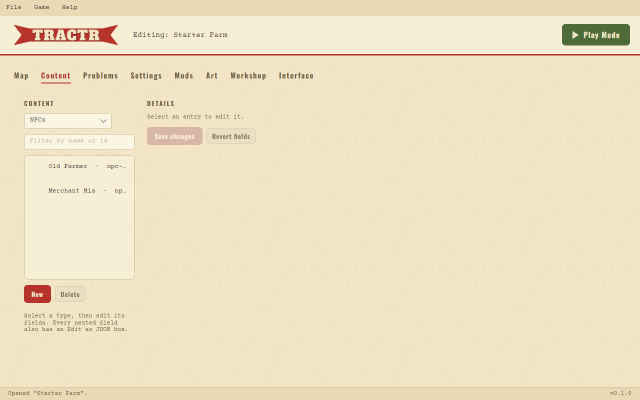
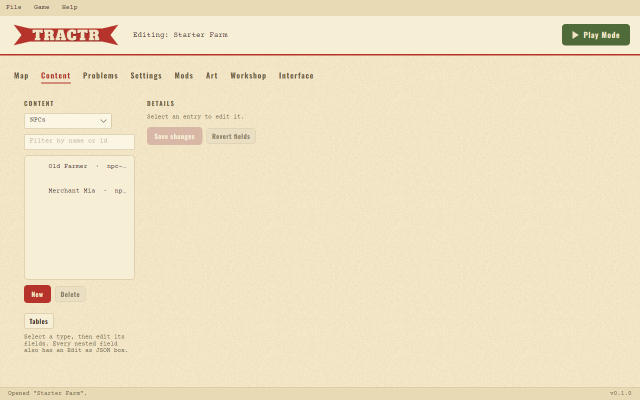
Name the skin form's controls and re-bless the editor screenshots
Screen readers need a name on every editor control; six of the new skin
fields had none. The Creator Guide's bold text must be editor labels, so
terms that are not labels are now in italics. The Play Mode and Content
tab screenshots gain the new States and Tables buttons.

Claude-Session: https://claude.ai/code/session_019oQTebzXx2xZdqtMRMwmRC

Changed region(s): [[0.0312, 0.78, 0.1875, 0.9]]

diff --git a/src/Tractr.App/Game/SkinEditorPanel.cs b/src/Tractr.App/Game/SkinEditorPanel.cs
@@ -40,6 +40,12 @@ public sealed class SkinEditorPanel : StackPanel
         Name = "SkinEditor";
         Spacing = 8;
         _message.Name = "SkinMessage";
+        AutomationProperties.SetName(_edge, "Panel edge (pixels)");
+        AutomationProperties.SetName(_scale, "Panel scale");
+        AutomationProperties.SetName(_portrait, "Portrait size");
+        AutomationProperties.SetName(_titleBackground, "Title background art");
+        AutomationProperties.SetName(_titleLogo, "Title logo");
+        AutomationProperties.SetName(_titleScene, "Title scene");
         Children.Add(Ui.Text("INTERFACE SKIN", "section"));
         Children.Add(Ui.Wrapped("Your game's own look: fonts, colours, panel art (drawn in nine parts so corners keep their size), icons and layout. Empty fields keep the built-in look; the player's text size and readable font still apply.", "muted", "small"));
 

diff --git a/docs/CREATOR-GUIDE.md b/docs/CREATOR-GUIDE.md
@@ -873,7 +873,7 @@ machines, animals and walking characters, and any art you assign wins.
 
 #### Art sizes
 
-The built-in pack is drawn at **32 pixels per tile**, and creator art that
+The built-in pack is drawn at 32 pixels per tile, and creator art that
 stands on the map follows the same rule, so a frame drawn at the same pixel
 size as the built-in art comes out the same size:
 
@@ -910,10 +910,10 @@ character in those colours, the same colours the player's character
 creator picks, over its appearance's colours: so two NPCs with the same
 appearance can still look different.
 
-A **layered character** is a stack of layer sheets drawn in order, for
+A *layered character* is a stack of layer sheets drawn in order, for
 example body, eyes, hair, top, bottom, shoes, hat and accessory. Every layer
 is an artwork with the same clip names and frame layout (all `walk-left`
-clips have the same frames), and each layer can have a **colour** it is
+clips have the same frames), and each layer can have a colour it is
 multiplied with: draw a layer in light greys and colour it per character.
 An NPC's `layers` and the project's `playerLayers` replace their art when
 not empty. A piece of clothing's **Wear → Layer** (`wear.layer`, an artwork
@@ -926,8 +926,8 @@ many layers costs no more to draw than one with a single sprite.
 
 #### Action animations
 
-The player's art (its first layer, for a layered player) can have **action
-clips** the game plays by itself:
+The player's art (its first layer, for a layered player) can have *action
+clips* the game plays by itself:
 
 - Using a tool plays `use-<action>-<direction>` (`use-till-down`,
   `use-water-left`, `use-break-up`…, the action being the tool's), else
